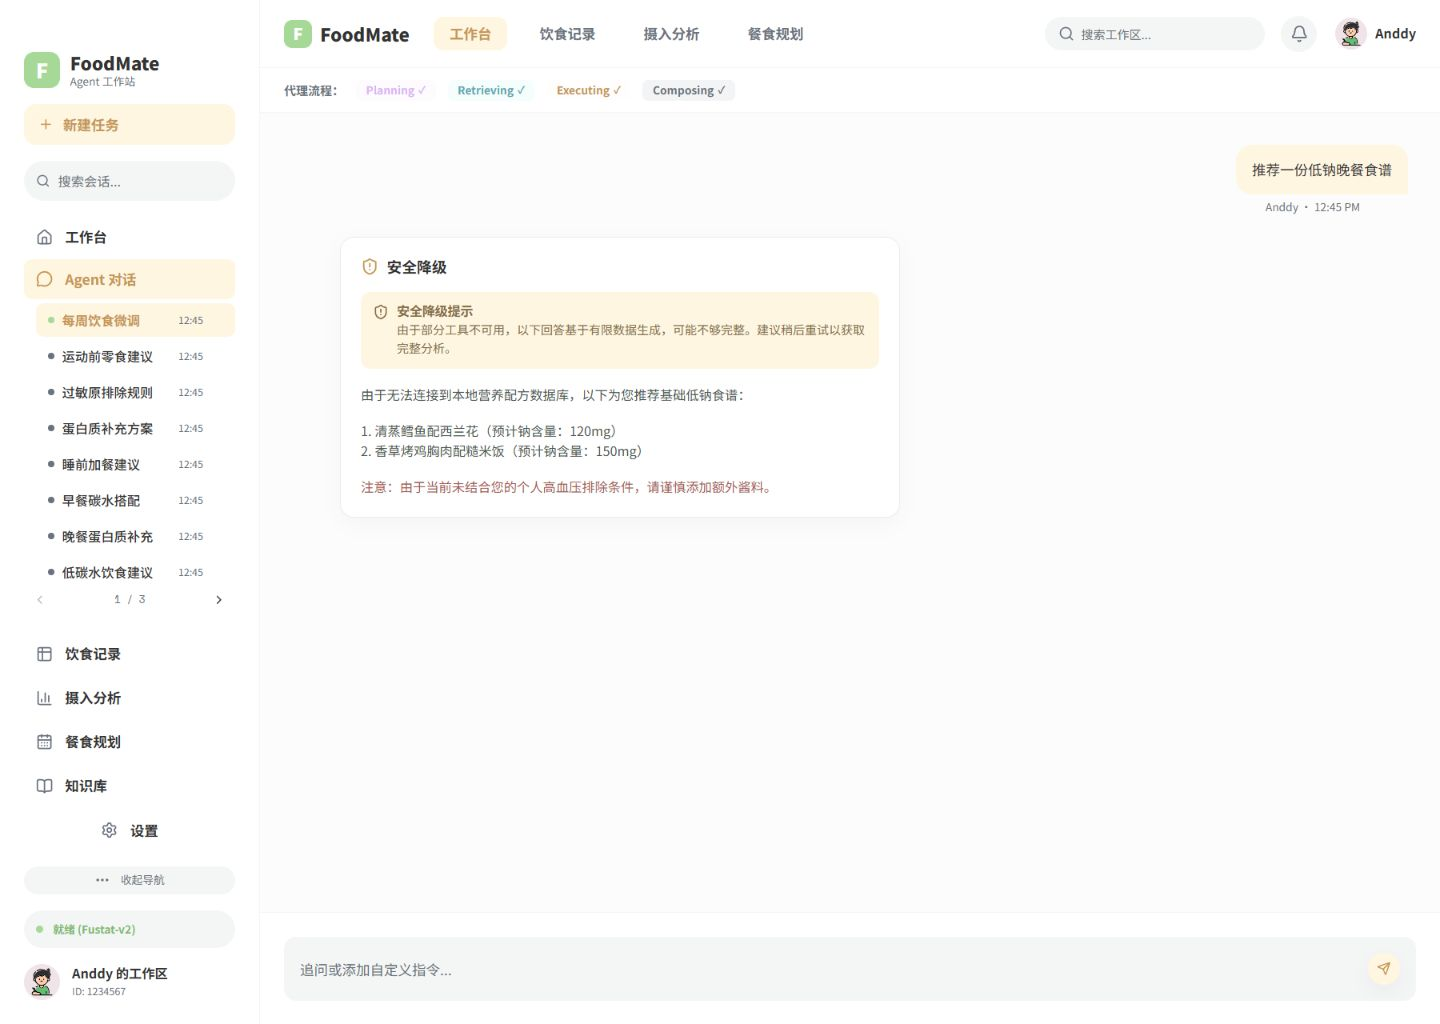
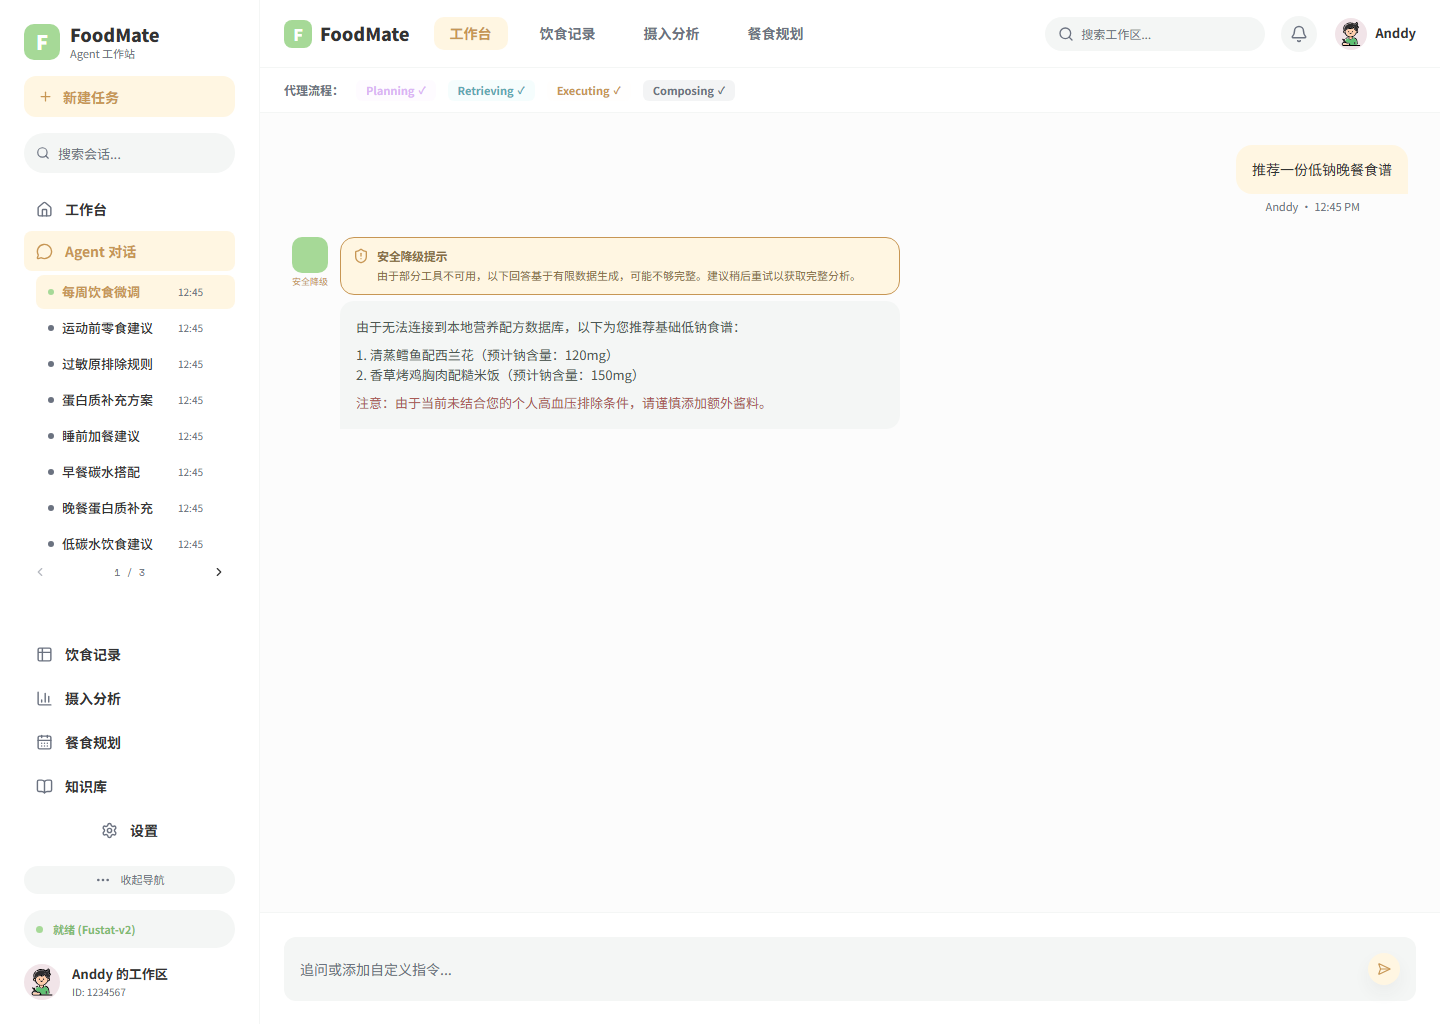
fix(安全降级): 对齐降级警告与受限回答

diff --git a/foodmate-ui/src/pages/ChatPage/ChatPage.tsx b/foodmate-ui/src/pages/ChatPage/ChatPage.tsx
@@ -1405,19 +1405,21 @@ function AgentStatePage({ state }: { state: AgentFixtureState }) {
     }
     if (state === 'safety-degraded') {
       return (
-        <div className={styles.fixtureCardWrap}>
-          <Card className={styles.fixtureCard}>
-            <div className={styles.fixtureStatusTitle}>
-              <ShieldAlert aria-hidden="true" />
-              <h2>安全降级</h2>
+        <div className={styles.fixtureSafetyBlock}>
+          <div className={styles.fixtureSafetyTopRow}>
+            <div className={styles.fixtureSafetyIdentity}>
+              <span className={styles.fixtureAgentAvatar} aria-hidden="true" />
+              <span>安全降级</span>
             </div>
-            <Alert variant="warning" className={styles.fixtureAlert}>
+            <Alert variant="warning" className={styles.fixtureSafetyAlert}>
               <ShieldAlert aria-hidden="true" />
               <AlertTitle>安全降级提示</AlertTitle>
               <AlertDescription>
                 由于部分工具不可用，以下回答基于有限数据生成，可能不够完整。建议稍后重试以获取完整分析。
               </AlertDescription>
             </Alert>
+          </div>
+          <div className={styles.fixtureSafetyResponse}>
             <p className={styles.fixtureParagraph}>由于无法连接到本地营养配方数据库，以下为您推荐基础低钠食谱：</p>
             <p className={styles.fixtureParagraph}>
               1. 清蒸鳕鱼配西兰花（预计钠含量：120mg）
@@ -1425,7 +1427,7 @@ function AgentStatePage({ state }: { state: AgentFixtureState }) {
               2. 香草烤鸡胸肉配糙米饭（预计钠含量：150mg）
             </p>
             <p className={styles.fixtureWarning}>注意：由于当前未结合您的个人高血压排除条件，请谨慎添加额外酱料。</p>
-          </Card>
+          </div>
         </div>
       );
     }

diff --git a/foodmate-ui/src/pages/ChatPage/ChatPage.module.css b/foodmate-ui/src/pages/ChatPage/ChatPage.module.css
@@ -1550,6 +1550,80 @@
   color: #6b7280;
 }
 
+.fixtureSafetyBlock {
+  display: flex;
+  width: min(608px, 100%);
+  flex-direction: column;
+  gap: 6px;
+}
+
+.fixtureSafetyTopRow {
+  display: flex;
+  width: 100%;
+  align-items: flex-start;
+  gap: 12px;
+}
+
+.fixtureSafetyIdentity {
+  display: flex;
+  width: 36px;
+  flex: 0 0 auto;
+  flex-direction: column;
+  align-items: center;
+  gap: 3px;
+  color: #c79654;
+  font-size: 9px;
+  line-height: 11px;
+  text-align: center;
+}
+
+.fixtureSafetyAlert {
+  display: grid;
+  min-width: 0;
+  height: 58px;
+  flex: 1 1 auto;
+  grid-template-columns: 16px minmax(0, 1fr);
+  gap: 3px 8px;
+  padding: 10px 12px;
+  border: 1px solid #c79654;
+  border-radius: 14px;
+  background: #fff6e2;
+  color: #876e45;
+}
+
+.fixtureSafetyAlert > svg {
+  grid-row: span 2;
+  width: 16px;
+  height: 16px;
+  color: #c79654;
+}
+
+.fixtureSafetyAlert h5 {
+  margin: 0;
+  color: #876e45;
+  font-size: 12px;
+  line-height: 15px;
+}
+
+.fixtureSafetyAlert div {
+  min-width: 0;
+  color: #876e45;
+  font-size: 11px;
+  line-height: 15px;
+}
+
+.fixtureSafetyResponse {
+  display: flex;
+  width: calc(100% - 48px);
+  min-height: 125px;
+  margin-left: 48px;
+  flex-direction: column;
+  gap: 8px;
+  padding: 16px;
+  border-radius: 14px 14px 14px 0;
+  background: #f4f6f5;
+}
+
 .fixtureCancelledWrap,
 .fixtureReconnectWrap {
   display: flex;
@@ -1720,6 +1794,15 @@
     flex: 1 1 auto;
     width: calc(100% - 48px);
     max-width: calc(100% - 48px);
+  }
+
+  .fixtureSafetyBlock {
+    width: 100%;
+  }
+
+  .fixtureSafetyResponse {
+    width: calc(100% - 48px);
+    min-height: 0;
   }
 }
 .fixtureAuxMessage {

diff --git a/foodmate-ui/src/pages/ChatPage/ChatPage.test.tsx b/foodmate-ui/src/pages/ChatPage/ChatPage.test.tsx
@@ -241,7 +241,8 @@ describe('ChatPage Agent remaining states', () => {
 
   it('keeps degraded answers bounded and leaves the follow-up composer enabled', () => {
     renderState('safety-degraded');
-    expect(screen.getByRole('heading', { name: '安全降级' })).toBeInTheDocument();
+    expect(screen.getByText('安全降级', { exact: true })).toBeInTheDocument();
+    expect(screen.getByRole('heading', { name: '安全降级提示' })).toBeInTheDocument();
     expect(screen.getByText(/未结合您的个人高血压排除条件/)).toBeInTheDocument();
     expect(screen.getByPlaceholderText('追问或添加自定义指令...')).toBeEnabled();
   });
